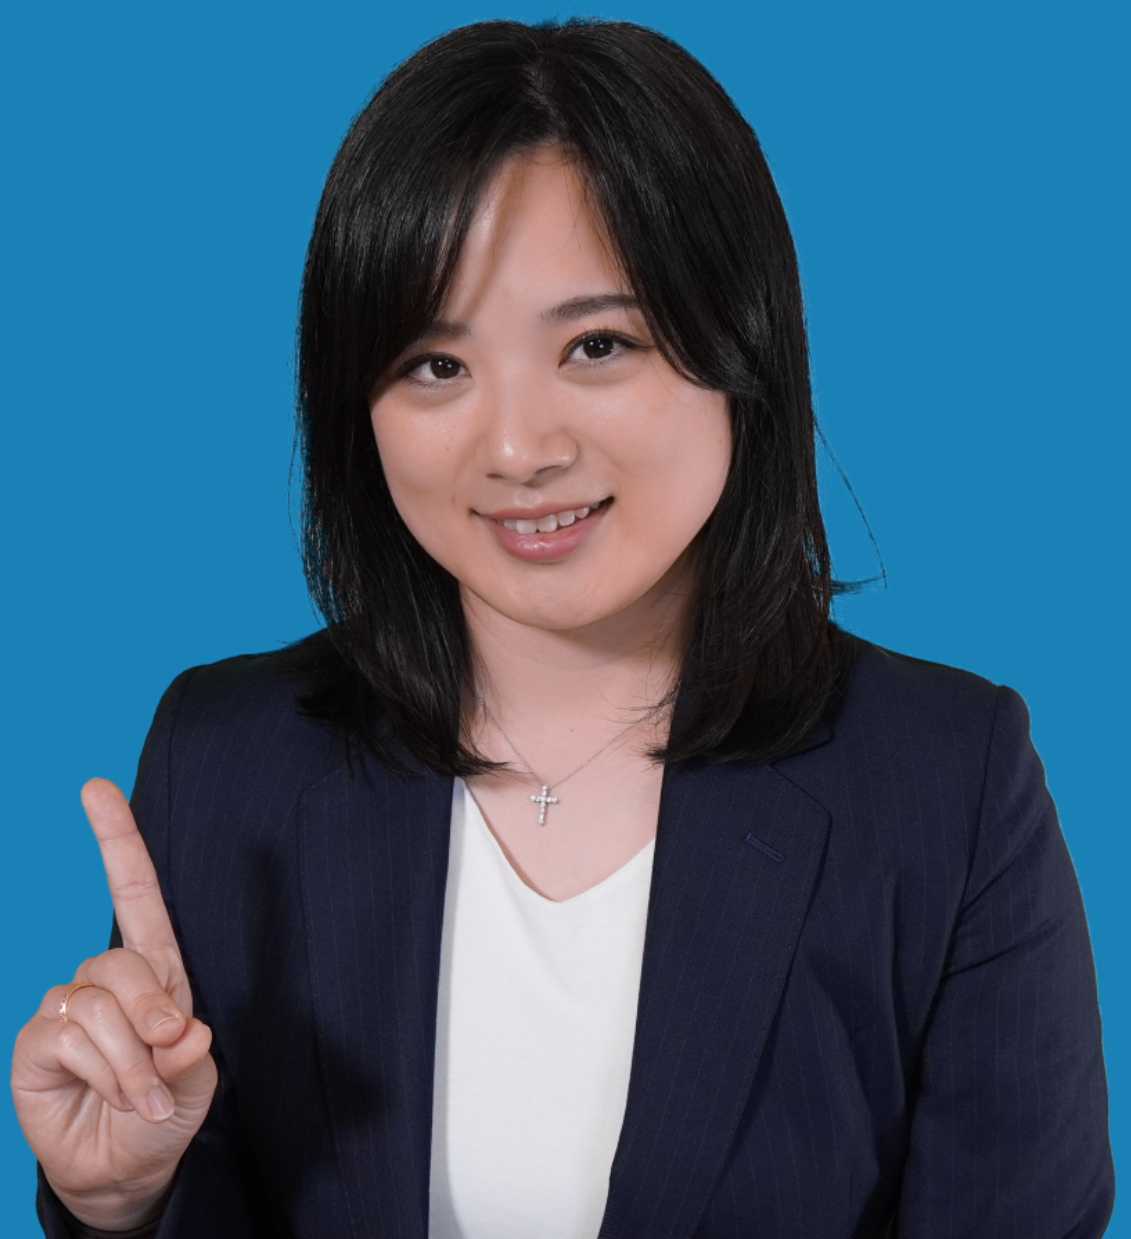
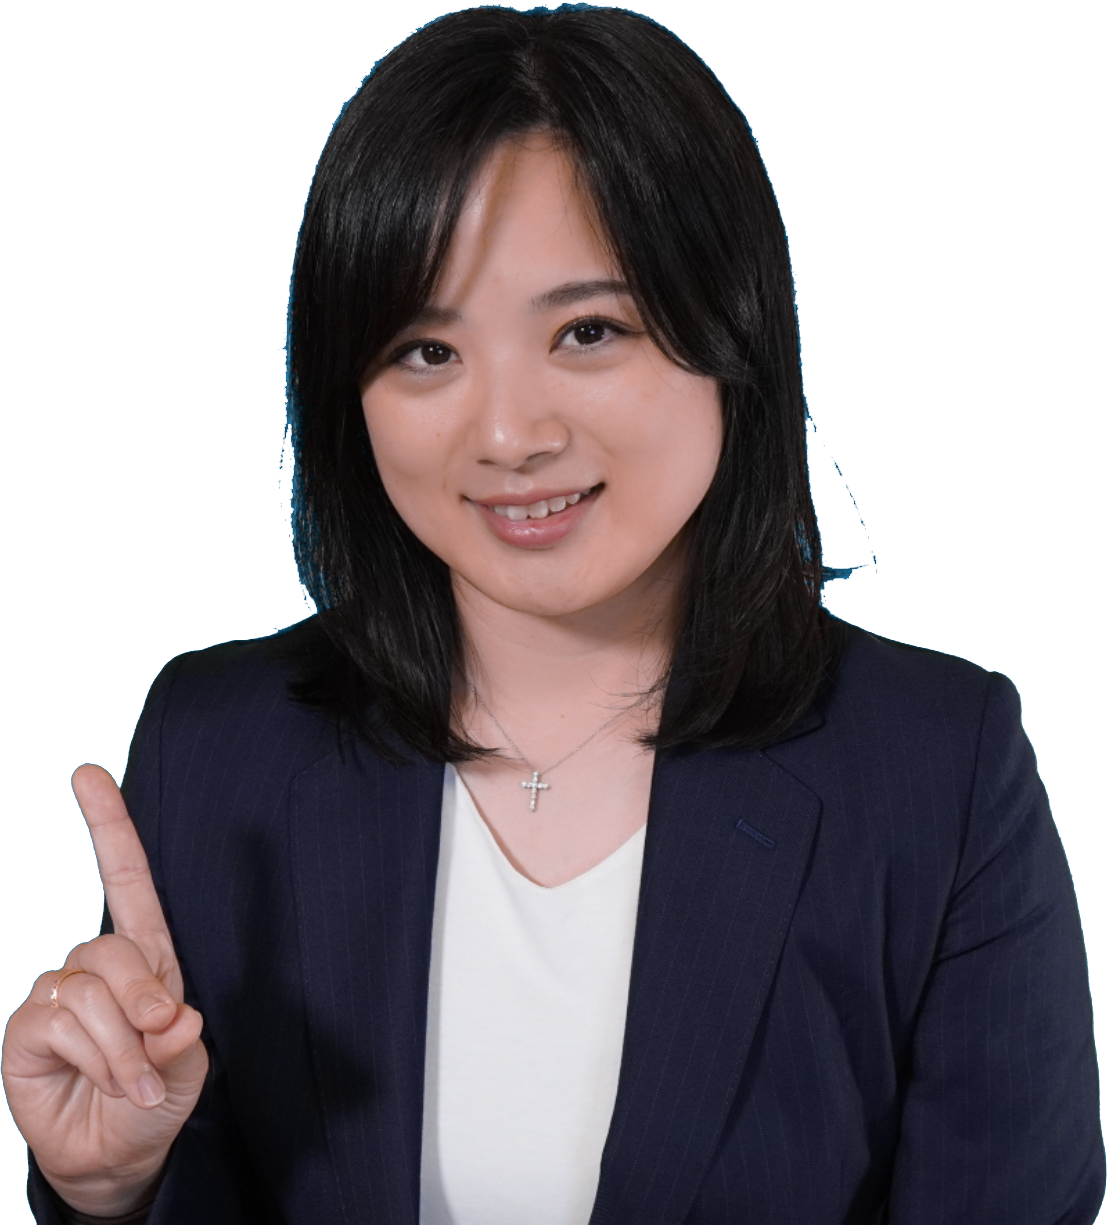
update style for key-visual

diff --git a/themes/generic-dx/layouts/partials/key-visual.html b/themes/generic-dx/layouts/partials/key-visual.html
@@ -1,4 +1,4 @@
-<div class="bg-[#1A81B6] relative pb-4 lg:pb-0 after:content-[''] after:bg-[url('../img/bottom-path.png')] after:bg-contain 3xl:after:bg-cover after:bg-no-repeat after:w-full after:h-[137px] after:max-w-[1920px] after:mx-auto after:absolute after:bottom-[-137px] after:left-0 over-size:after:hidden">
+<div class="bg-gradient-to-b from-sky-600 to-[#1A81B6] relative pb-4 lg:pb-0 after:content-[''] after:bg-[url('../img/bottom-path.png')] after:bg-contain 3xl:after:bg-cover after:bg-no-repeat after:w-full after:h-[137px] after:max-w-[1920px] after:mx-auto after:absolute after:bottom-[-137px] after:left-0 over-size:after:hidden">
     <div class="max-w-[1920px] mx-auto">
         <div class="pt-1 w-full lg:w-[calc(100%_-_16rem)] 2xl:w-3/5 2xl:mx-auto">
            
@@ -23,11 +23,13 @@
                         <span class="text-[#E01E5B] font-bold text-[20px] lg:text-[28px] 3xl:text-[37px] w-full text-center">脱 クラウド宣言！</span>
                     </div>
 
-                    {{ .Scratch.Set "class" "h-[300px] w-[270px] lg:h-[450px] lg:w-[420px] 3xl:h-[659px] 3xl:w-[620px] object-cover lg:mt-[-90px] ml-auto lg:mr-auto" }}
+                    {{ .Scratch.Set "class" "h-[300px] w-[270px] lg:h-[470px] lg:w-[420px] 3xl:h-[659px] 3xl:w-[620px] object-cover lg:mt-[-90px] ml-auto lg:mr-auto" }}
                     {{ .Scratch.Set "src" .Site.Params.images.president }}
+                    {{ .Scratch.Set "type" "content" }}
 
                         {{ partial "atom/atom-picture.html" . }}
 
+                    {{ .Scratch.Delete "type" }}
                     {{ .Scratch.Delete "src" }}
                     {{ .Scratch.Delete "class" }}
 

diff --git a/themes/generic-dx/layouts/partials/header.html b/themes/generic-dx/layouts/partials/header.html
@@ -5,7 +5,7 @@
     {{ $bgColor = "bg-white shadow-xl" }}
     {{ $textColor = "text-black" }}
 {{ else }}
-    {{ $bgColor = "bg-[#1A81B6]" }}
+    {{ $bgColor = "bg-sky-600" }}
     {{ $textColor = "text-white" }}
 {{ end }}
 
